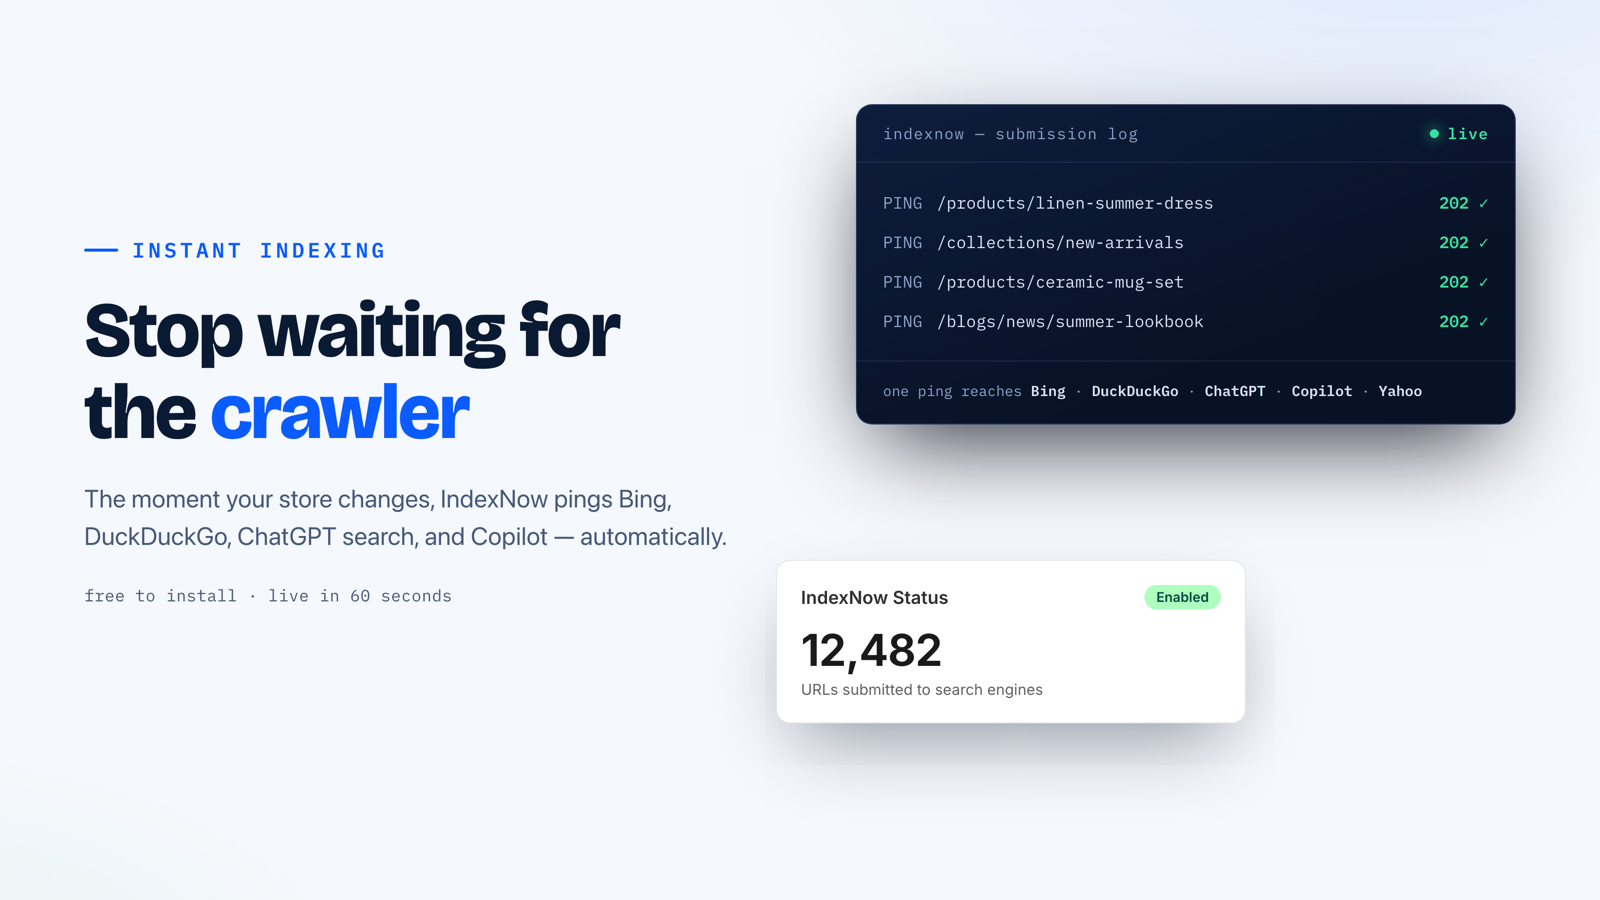
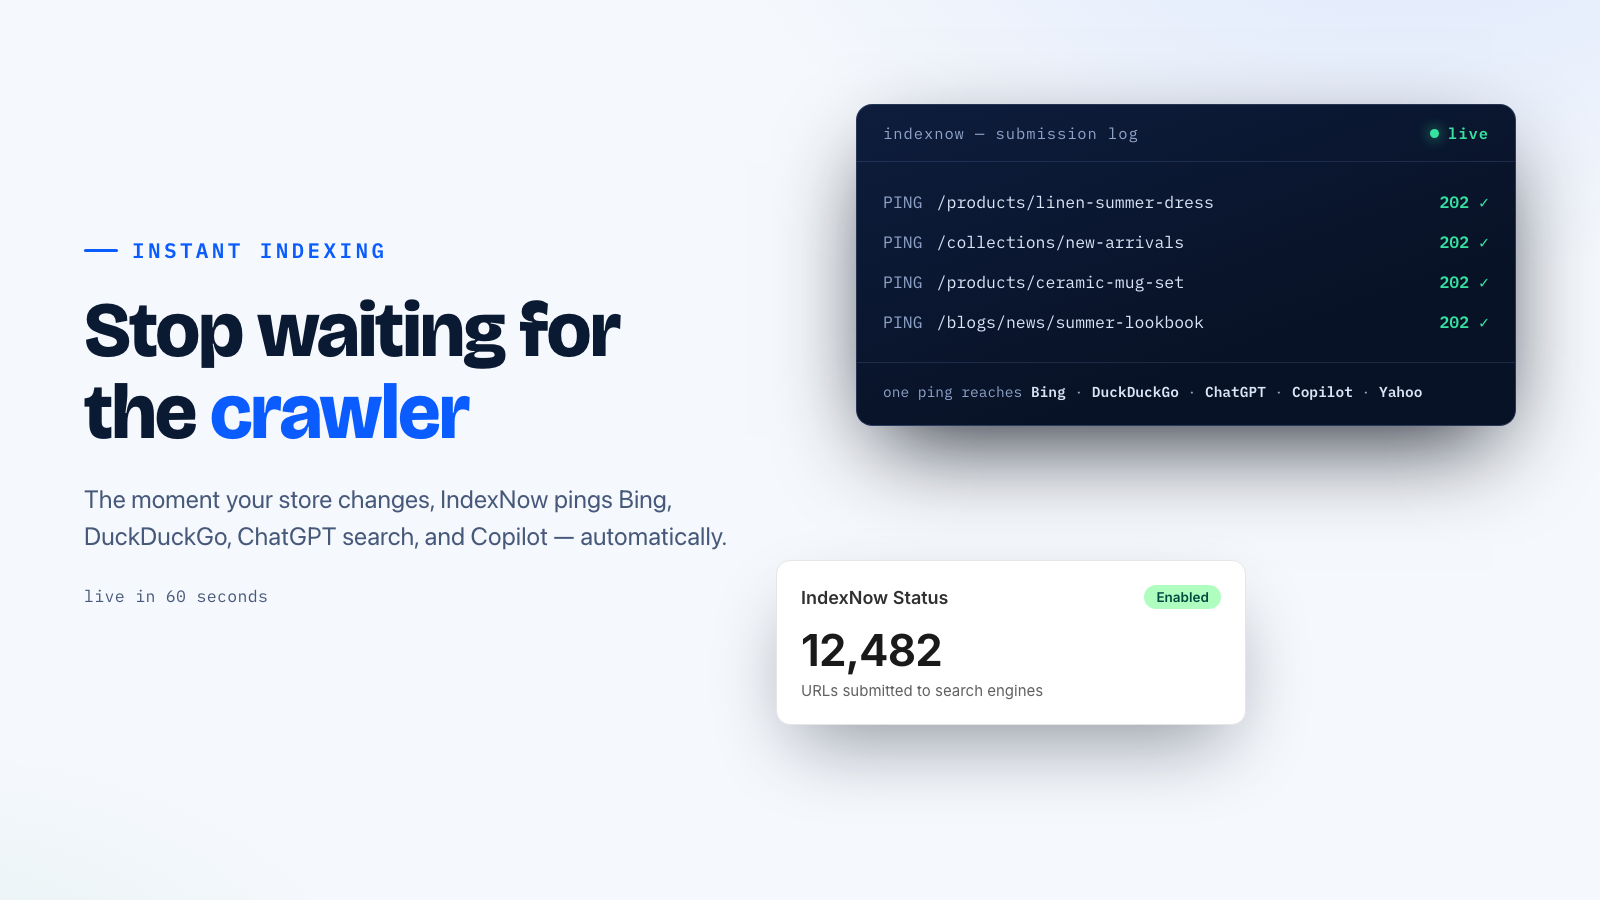
Remove 'free to install' pricing text from app store screenshots

diff --git a/app-store-screenshots/src/01-dashboard.html b/app-store-screenshots/src/01-dashboard.html
@@ -23,9 +23,7 @@
   <div class="copy">
     <div class="eyebrow">Auto-sync</div>
     <h1>Every store change, pushed to Bing — <em>automatically</em></h1>
-    <p class="sub">New products, price edits, deleted pages: submitted to Bing&rsquo;s index the moment you hit Save.</p>
-    <p class="micro">free to install</p>
-  </div>
+    <p class="sub">New products, price edits, deleted pages: submitted to Bing&rsquo;s index the moment you hit Save.</p>  </div>
 
   <div class="chip"><span class="dim">PING</span> api.indexnow.org <span class="ok">→ 202 ✓</span></div>
 

diff --git a/app-store-screenshots/src/m1-dashboard.html b/app-store-screenshots/src/m1-dashboard.html
@@ -22,9 +22,7 @@
   <div class="copy">
     <div class="eyebrow">Auto-sync</div>
     <h1>Every store change, pushed to <em>Bing</em></h1>
-    <p class="sub">New products, price edits, deleted pages — synced from your pocket, or with no one watching at all.</p>
-    <p class="micro">free to install</p>
-  </div>
+    <p class="sub">New products, price edits, deleted pages — synced from your pocket, or with no one watching at all.</p>  </div>
 
   <div class="chip"><span class="dim">PING</span> api.indexnow.org <span class="ok">→ 202 ✓</span></div>
 

diff --git a/app-store-screenshots/src/00-feature.html b/app-store-screenshots/src/00-feature.html
@@ -24,7 +24,7 @@
     <div class="eyebrow">Instant indexing</div>
     <h1>Stop waiting for the <em>crawler</em></h1>
     <p class="sub">The moment your store changes, IndexNow pings Bing, DuckDuckGo, ChatGPT search, and Copilot — automatically.</p>
-    <p class="micro">free to install · live in 60 seconds</p>
+    <p class="micro">live in 60 seconds</p>
   </div>
 
   <div class="ping-panel">
